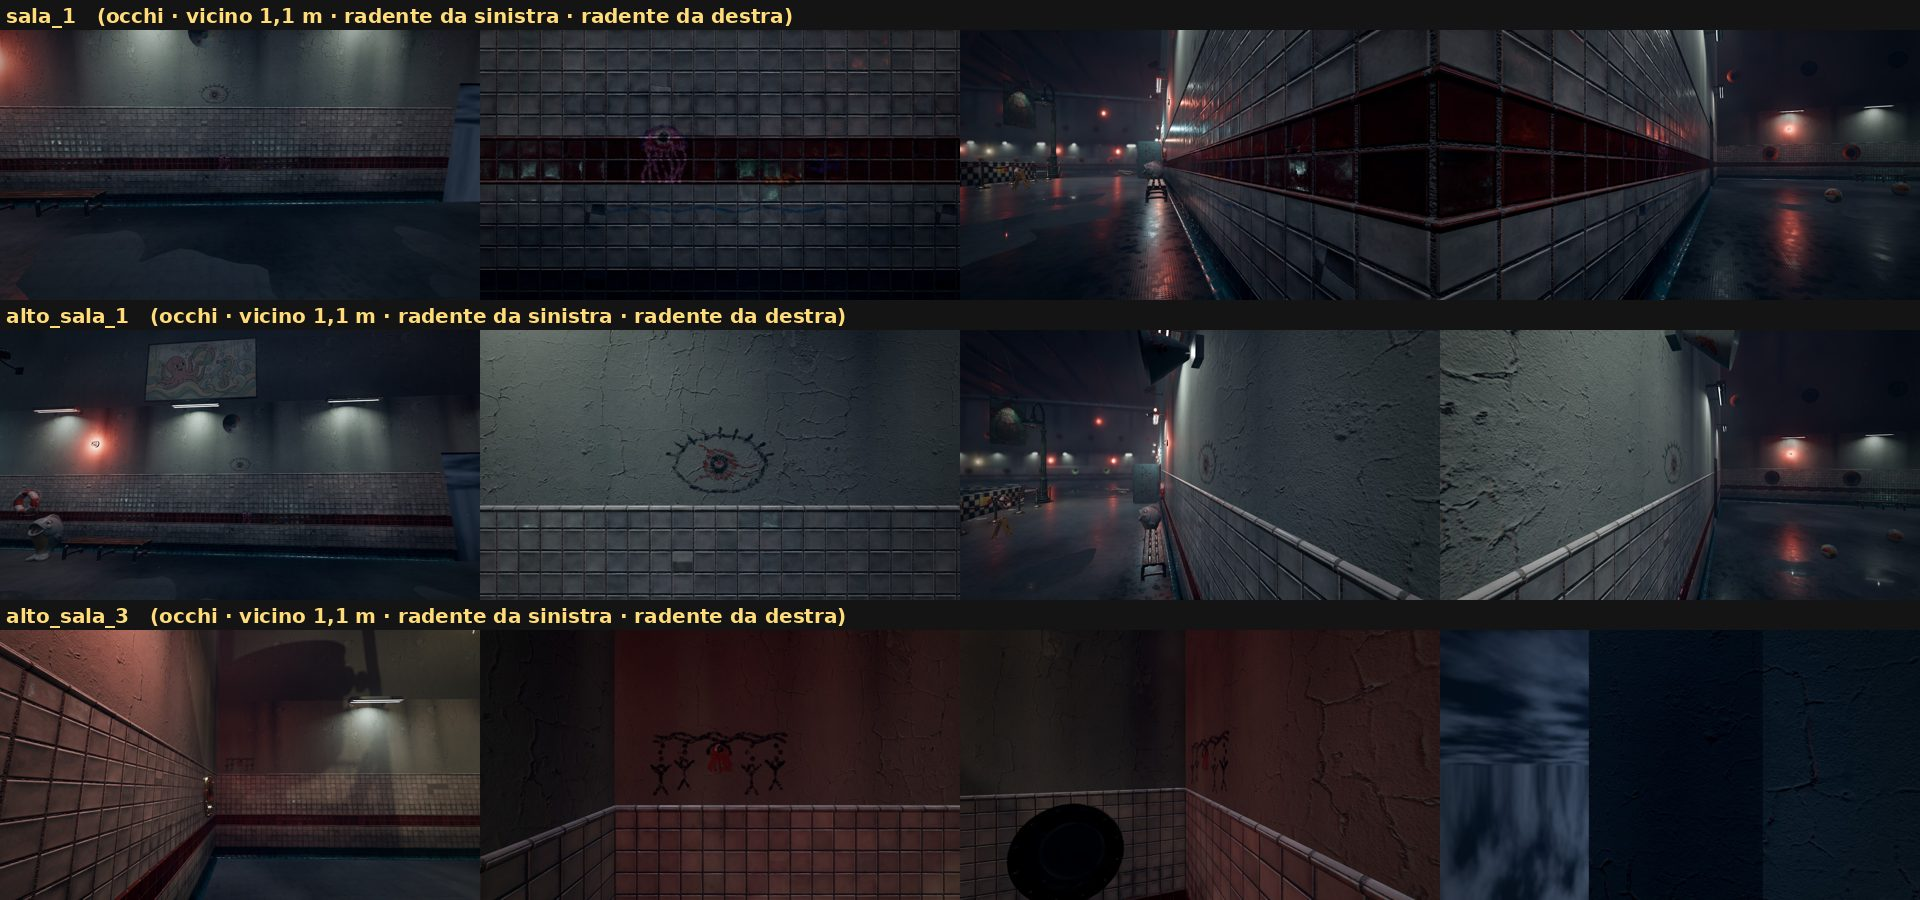
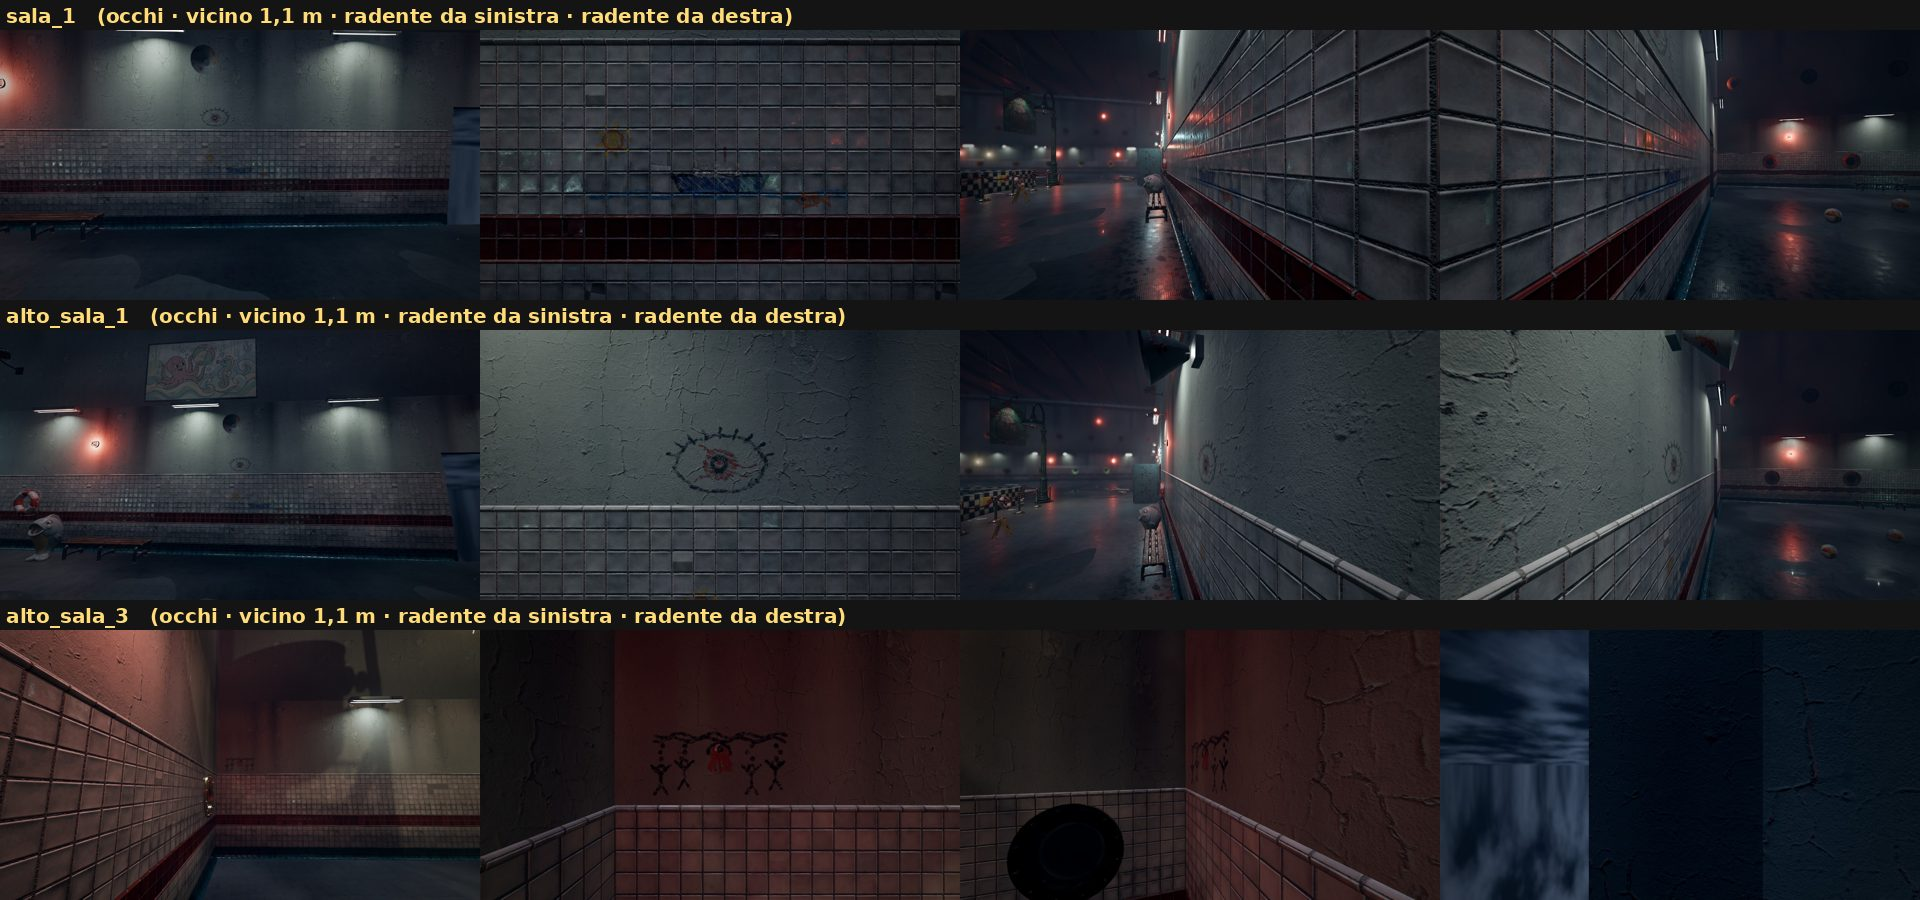
Collaudo degli scarabocchi: ricontrollo di sala_1 su lavoro/scarabocchi 7b20252b (nave col sole sopra la riga rossa; superato)
Claude-Session: https://claude.ai/code/session_01NbNne93LWX1hZUrGWpCyL8

Changed region(s): [[0.0, 0.0311, 1.0, 0.3422]]

diff --git a/docs/collaudo/scarabocchi/esito.md b/docs/collaudo/scarabocchi/esito.md
@@ -55,3 +55,15 @@ alto_sala_3, risalita_2, tunnel_1 e torre_3 spostato.
 - sala_1 sta sulla fascia di piastrelle con la riga rossa: la medusa cade proprio sulla riga rossa e si legge meno.
 - Il disegno di Jilly coi pesci (sala_1, inseguimento_3) somiglia alla medusina rosa del disegno degli acquari. Sta a
   più di 3 m dagli acquari, ma è da tenere presente se l'utente lo legge come un indizio.
+
+## Ricontrollo di sala_1 su 7b20252b
+
+sala_1 è stato rifatto: ora c'è la nave col sole e il pesce, 1,6 × 0,5 m sulle piastrelle bianche sopra la riga rossa,
+fra 1,05 e 1,55 m.
+
+- Geometria: 0 problemi su 91 raggi, niente nella scatola.
+- Fra il bordo alto (1,55 m) e il bordo basso dell'occhio di alto_sala_1 (2,0 m) restano 45 cm: non si toccano.
+- Niente cartelli entro 1 m. L'unica cosa vicina è l'oblò a 0,46 m, che non tocca.
+- Scatti nuovi in `foglio_sala.jpg`, righe sala_1 e alto_sala_1. **Superato.**
+- Con questo cadono le due note di design su sala_1: la medusa sulla riga rossa e la Jilly simile alla medusina
+  degli acquari.
